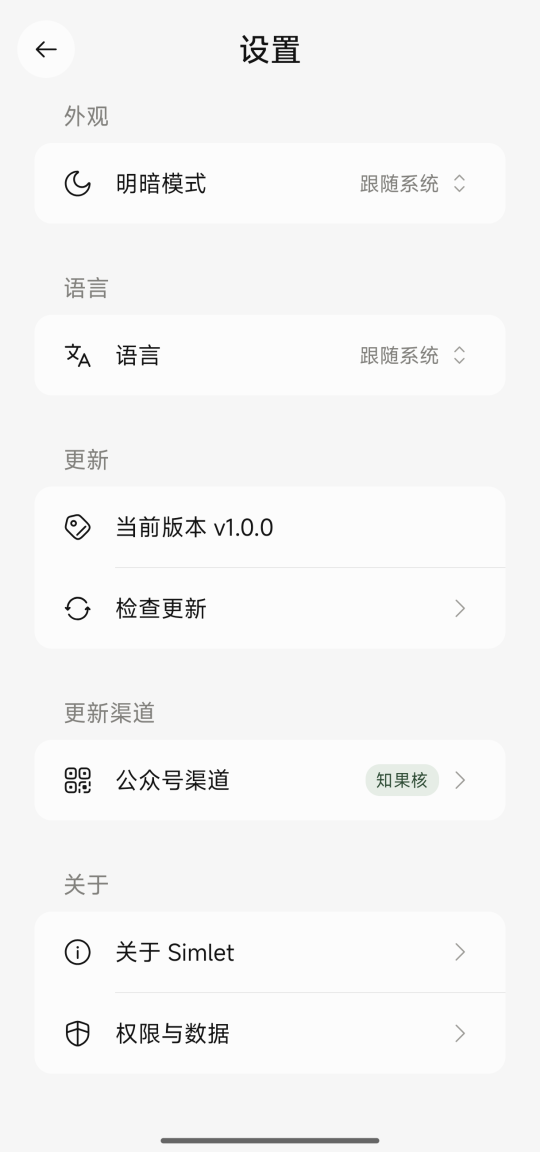
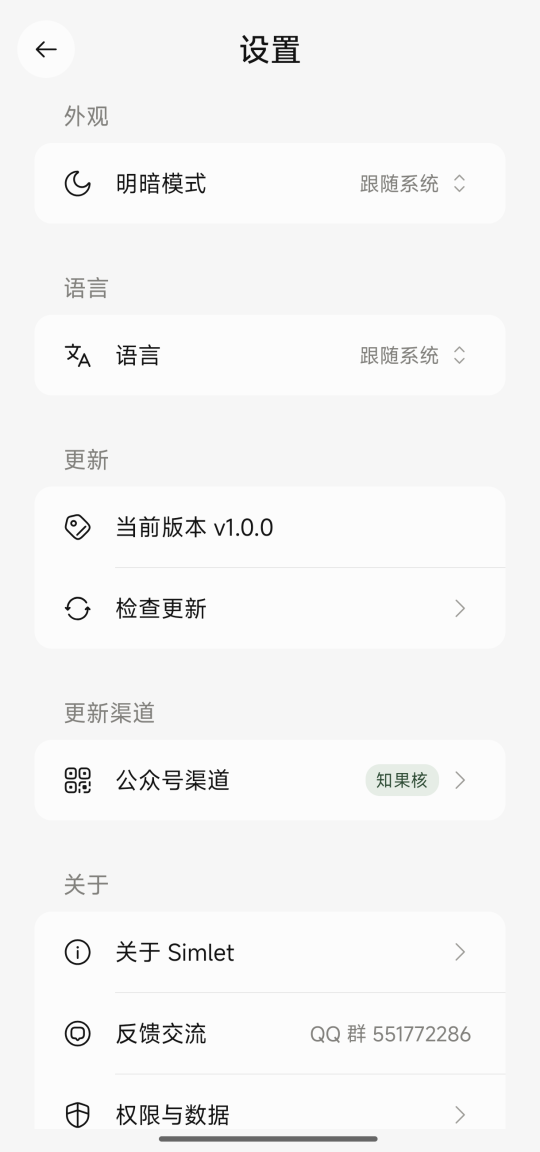
ui: 反馈入口从关于页挪到设置页的「关于」栏
关于页要点两层才看到，反馈群等于没有。挪进设置页那一栏，跟「关于 Simlet」
「权限与数据」并列，一屏内就能看见群号。关于页不再重复放同一条。

跳 QQ 的链接位还是空着：填上群二维码那条 qm.qq.com/...?k=… 就自动变成
「点一下跳加群」并露出右箭头，没填就还是复制群号 + 提示。

diff --git a/app/src/main/java/com/qianxi/simlet/ui/screen/AboutScreen.kt b/app/src/main/java/com/qianxi/simlet/ui/screen/AboutScreen.kt
@@ -1,6 +1,5 @@
 package com.qianxi.simlet.ui.screen
 
-import android.widget.Toast
 import androidx.compose.foundation.layout.Column
 import androidx.compose.foundation.layout.Spacer
 import androidx.compose.foundation.layout.fillMaxWidth
@@ -11,11 +10,9 @@ import androidx.compose.material3.Text
 import androidx.compose.runtime.Composable
 import androidx.compose.ui.Alignment
 import androidx.compose.ui.Modifier
-import androidx.compose.ui.platform.LocalClipboardManager
 import androidx.compose.ui.platform.LocalContext
 import androidx.compose.ui.res.pluralStringResource
 import androidx.compose.ui.res.stringResource
-import androidx.compose.ui.text.AnnotatedString
 import androidx.compose.ui.text.style.TextAlign
 import androidx.compose.ui.unit.dp
 import com.qianxi.simlet.BuildConfig
@@ -28,35 +25,18 @@ import com.qianxi.simlet.ui.component.RowTail
 import com.qianxi.simlet.ui.openWebPage
 import dev.reicon.Code
 import dev.reicon.Globe
-import dev.reicon.MessageCircle
 
 private const val PROJECT_URL = "https://github.com/vip458/Simlet"
-
-private const val QQ_GROUP = "551772286"
-
-/**
- * 点这一行跳去 QQ 加群。
- *
- * 只认群二维码里那条 `https://qm.qq.com/cgi-bin/qm/qr?k=…`：key 属于群本身，谁点都一样，
- * 公开在仓库里没有代价。另一种 `qun.qq.com/universal-share/share?…busi_data=…` 的
- * base64 里解出来是群主的 uin 加一次性 token，那种串进仓库等于把群主凭据发出去，
- * 而且过一阵就失效，所以不用它。
- *
- * 空串 = 还没拿到群二维码链接，这时点这一行退回「复制群号」。
- */
-private const val QQ_JOIN_URL = ""
 
 /**
  * 关于页：居中 logo 块 + 行列表 + 底部灰脚注，全部照参考稿那张关于页的结构。
  *
- * 使用提示在首页顶栏的帮助里，权限与数据在设置页——两者都是「用的时候才需要看」。
+ * 使用提示在首页顶栏的帮助里，权限与数据、反馈群在设置页——都是「用的时候才需要看」的东西。
  * 第三方许可不再在这页铺开：它有自己的列表页，图标集也在里面。
  */
 @Composable
 fun AboutScreen(onBack: () -> Unit, onOpenLicenses: () -> Unit) {
     val context = LocalContext.current
-    val clipboard = LocalClipboardManager.current
-    val copiedHint = stringResource(R.string.about_feedback_copied, QQ_GROUP)
     AppScaffold(title = stringResource(R.string.about_title), onBack = onBack) { insets ->
         AppColumn(insets) {
             SettingGroup {
@@ -92,20 +72,6 @@ fun AboutScreen(onBack: () -> Unit, onOpenLicenses: () -> Unit) {
                     icon = Globe.Outline,
                     tail = RowTail.Next,
                     onClick = { context.openWebPage(PROJECT_URL) }
-                )
-                RowDivider()
-                SettingRow(
-                    title = stringResource(R.string.about_feedback),
-                    icon = MessageCircle.Outline,
-                    value = stringResource(R.string.about_feedback_value),
-                    onClick = {
-                        if (QQ_JOIN_URL.isEmpty()) {
-                            clipboard.setText(AnnotatedString(QQ_GROUP))
-                            Toast.makeText(context, copiedHint, Toast.LENGTH_SHORT).show()
-                        } else {
-                            context.openWebPage(QQ_JOIN_URL)
-                        }
-                    }
                 )
                 RowDivider()
                 SettingRow(

diff --git a/app/src/main/java/com/qianxi/simlet/ui/screen/SettingsScreen.kt b/app/src/main/java/com/qianxi/simlet/ui/screen/SettingsScreen.kt
@@ -1,6 +1,7 @@
 package com.qianxi.simlet.ui.screen
 
 import android.os.Build
+import android.widget.Toast
 import androidx.compose.material3.SnackbarHost
 import androidx.compose.material3.SnackbarHostState
 import androidx.compose.runtime.Composable
@@ -37,8 +38,23 @@ import com.qianxi.simlet.update.UpdateViewModel
 import dev.reicon.Globe
 import dev.reicon.InfoCircle
 import dev.reicon.Language
+import dev.reicon.MessageCircle
 import dev.reicon.Moon
 import dev.reicon.Shield
+
+private const val QQ_GROUP = "551772286"
+
+/**
+ * 点「反馈交流」跳去 QQ 加群。
+ *
+ * 只认群二维码里那条 `https://qm.qq.com/cgi-bin/qm/qr?k=…`：key 属于群本身，谁点都一样，
+ * 公开在仓库里没有代价。另一种 `qun.qq.com/universal-share/share?…busi_data=…` 的
+ * base64 里解出来是群主的 uin 加一次性 token，那种串进仓库等于把群主凭据发出去，
+ * 而且过一阵就失效，所以不用它。
+ *
+ * 空串 = 还没拿到群二维码链接，这时点这一行退回「复制群号」。
+ */
+private const val QQ_JOIN_URL = ""
 
 /** 设置页：外观、语言、更新、渠道，以及通往关于页与权限说明的入口。 */
 @Composable
@@ -55,6 +71,7 @@ fun SettingsScreen(
     val channelName = stringResource(R.string.update_channel_name)
     val needInstallPermission = stringResource(R.string.update_install_blocked_detail)
     val copied = stringResource(R.string.update_copied)
+    val qqCopied = stringResource(R.string.about_feedback_copied, QQ_GROUP)
     val scope = rememberCoroutineScope()
     val clipboard = LocalClipboardManager.current
 
@@ -141,6 +158,21 @@ fun SettingsScreen(
                     icon = InfoCircle.Outline,
                     tail = RowTail.Next,
                     onClick = onOpenAbout
+                )
+                RowDivider()
+                SettingRow(
+                    title = stringResource(R.string.about_feedback),
+                    icon = MessageCircle.Outline,
+                    value = stringResource(R.string.about_feedback_value),
+                    tail = if (QQ_JOIN_URL.isEmpty()) RowTail.None else RowTail.Next,
+                    onClick = {
+                        if (QQ_JOIN_URL.isEmpty()) {
+                            clipboard.setText(AnnotatedString(QQ_GROUP))
+                            Toast.makeText(context, qqCopied, Toast.LENGTH_SHORT).show()
+                        } else {
+                            context.openWebPage(QQ_JOIN_URL)
+                        }
+                    }
                 )
                 RowDivider()
                 SettingRow(

diff --git a/docs/icons-reicon.md b/docs/icons-reicon.md
@@ -95,7 +95,7 @@
 | `HelpCircle` | 首页顶栏 · 使用提示 | 24 | onSurface |
 | `InfoCircle` | 设置 · 关于 Simlet | 20 | onSurface |
 | `Language` | 设置 · 语言 | 20 | onSurface |
-| `MessageCircle` | 关于 · 反馈交流群 | 20 | onSurface |
+| `MessageCircle` | 设置 · 反馈交流群 | 20 | onSurface |
 | `Moon` | 设置 · 明暗模式 | 20 | onSurface |
 | `Qr` | 设置 · 公众号渠道 | 20 | onSurface |
 | `Refresh` | 首页顶栏刷新 / 检查更新 / 立即安装 / 下载升级包 / 重新检测 | 24·20·18 | onSurface |
